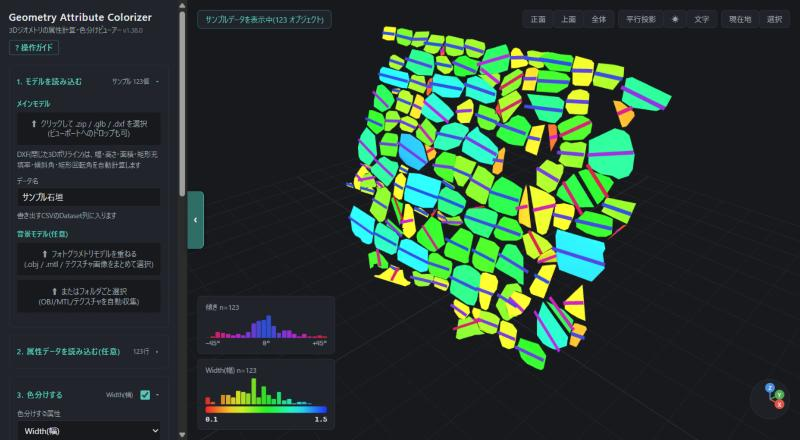
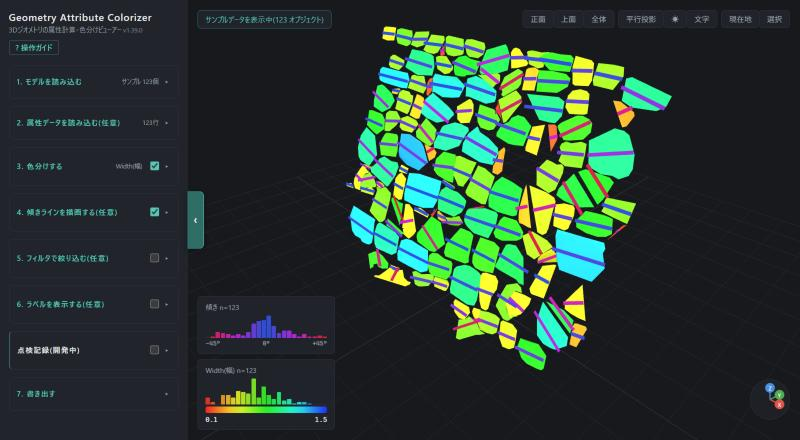
READMEのスクリーンショットを v1.39.0 に更新する
「点検記録(開発中)」ブロックが増え、見出しにオンオフのチェックが
付いたのに、画像は v1.38.0 のままだった。

手順パネルは畳んだ状態で撮った。開いた直後の状態だと1〜3しか写らず、
新しく増えた「点検記録」が画面外になるため。キャプションにその旨と、
見出しのチェックで畳んだまま切り替えられることを書いた。

800x440。開発版の印と知らせは消して撮っている(公開される安定版には
出ないため)。

diff --git a/README.md b/README.md
@@ -7,10 +7,12 @@
 外部へ送信されることもありません。
 
 <img src="./assets/screenshot.png" width="760"
-     alt="アプリの画面。左に読み込み・色分けなどの手順パネル、中央に幅で色分けされ傾きラインを重ねた石垣の3D表示、左下に傾きの分布と幅の凡例、右上に視点や表示を切り替えるボタン">
+     alt="アプリの画面。左に1〜7の手順と「点検記録(開発中)」が並ぶパネル、中央に幅で色分けされ傾きラインを重ねた石垣の3D表示、左下に傾きの分布と幅の凡例、右上に視点や表示を切り替えるボタン">
 
-<sub>開いた直後の画面。大阪城石垣の公開データ123石を、幅で色分けしたもの(出典は下記)。
-各石に引いた線は傾きライン(矩形回転角)で、左下にその分布と色分けの凡例が並びます。</sub>
+<sub>大阪城石垣の公開データ123石を、幅で色分けしたもの(出典は下記)。
+各石に引いた線は傾きライン(矩形回転角)で、左下にその分布と色分けの凡例が並びます。
+左の手順パネルは、全体が見えるように畳んであります。見出しのチェックで、
+畳んだままオンオフできます。</sub>
 
 **▶ アプリを開く: https://nabunken-info.github.io/geometry-attribute-colorizer/**
 
